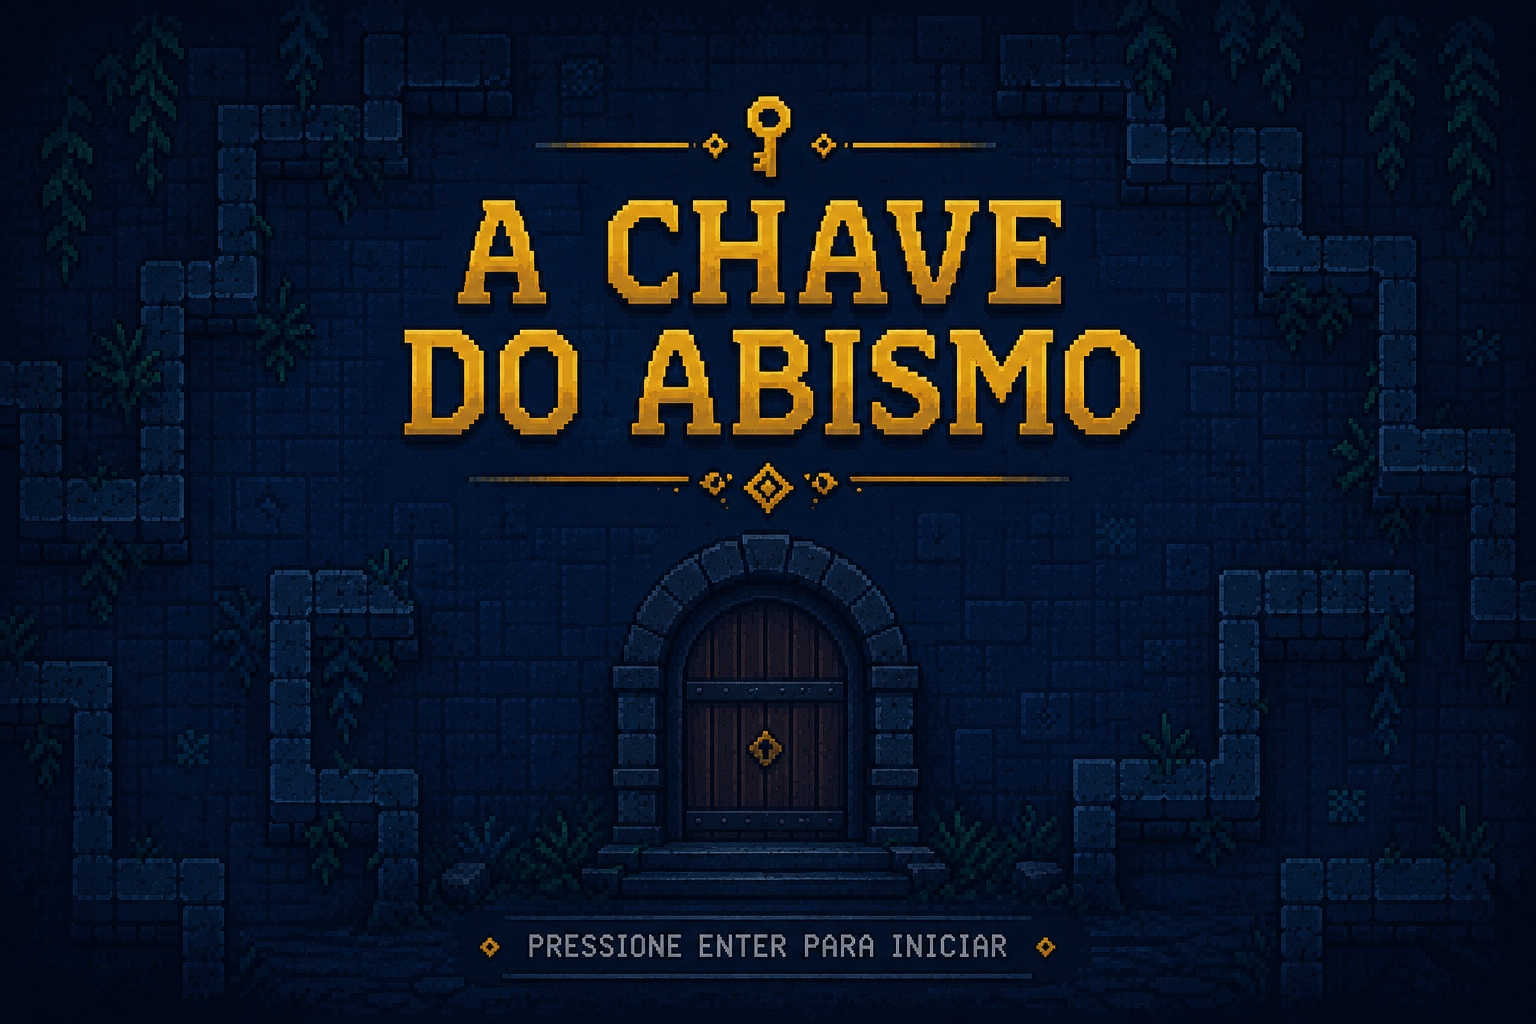
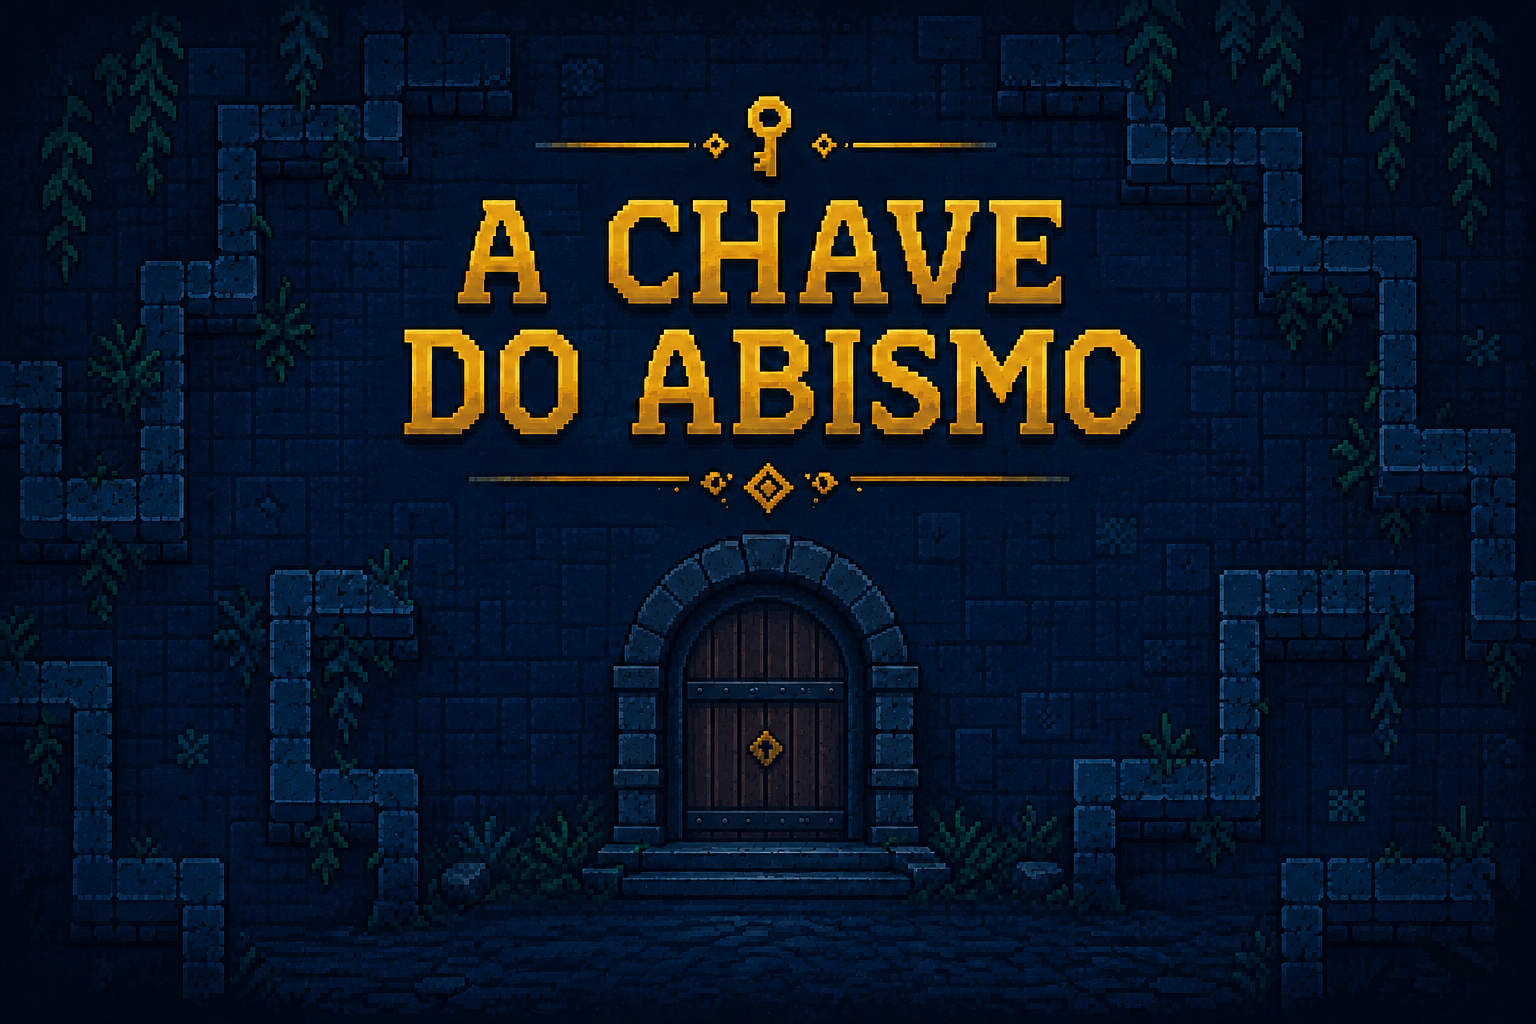
ajustes no menu

diff --git a/src/Menu.c b/src/Menu.c
@@ -1,12 +1,8 @@
 #include "raylib.h"
-#include <stdio.h>
 
 void RunMenu(void)
 {
     Texture2D menu = LoadTexture("assets/menu.png");
-
-    printf("Largura: %d\n", menu.width);
-    printf("Altura: %d\n", menu.height);
 
     while (!WindowShouldClose())
     {
@@ -14,7 +10,22 @@ void RunMenu(void)
 
         ClearBackground(BLACK);
 
-        DrawTexture(menu, 0, 0, WHITE);
+        DrawTexturePro(
+            menu,
+            (Rectangle){0, 0, menu.width, menu.height},
+            (Rectangle){0, 0, 1300, 1000},
+            (Vector2){0, 0},
+            0.0f,
+            WHITE
+        );
+
+        DrawText(
+            "ENTER - JOGAR",
+            540,
+            835,
+            24,
+            WHITE
+        );
 
         EndDrawing();
 

diff --git a/src/main.c b/src/main.c
@@ -35,7 +35,7 @@ int main(void) {
     InitWindow(1300, 1000, "A Chave do Abismo");
      SetExitKey(KEY_O);
     SetTargetFPS(60);
-    RunMenu();                              // Set a custom key to exit program (default is ESC)
+    RunMenu();                              
     
     
     carregar_mapa();